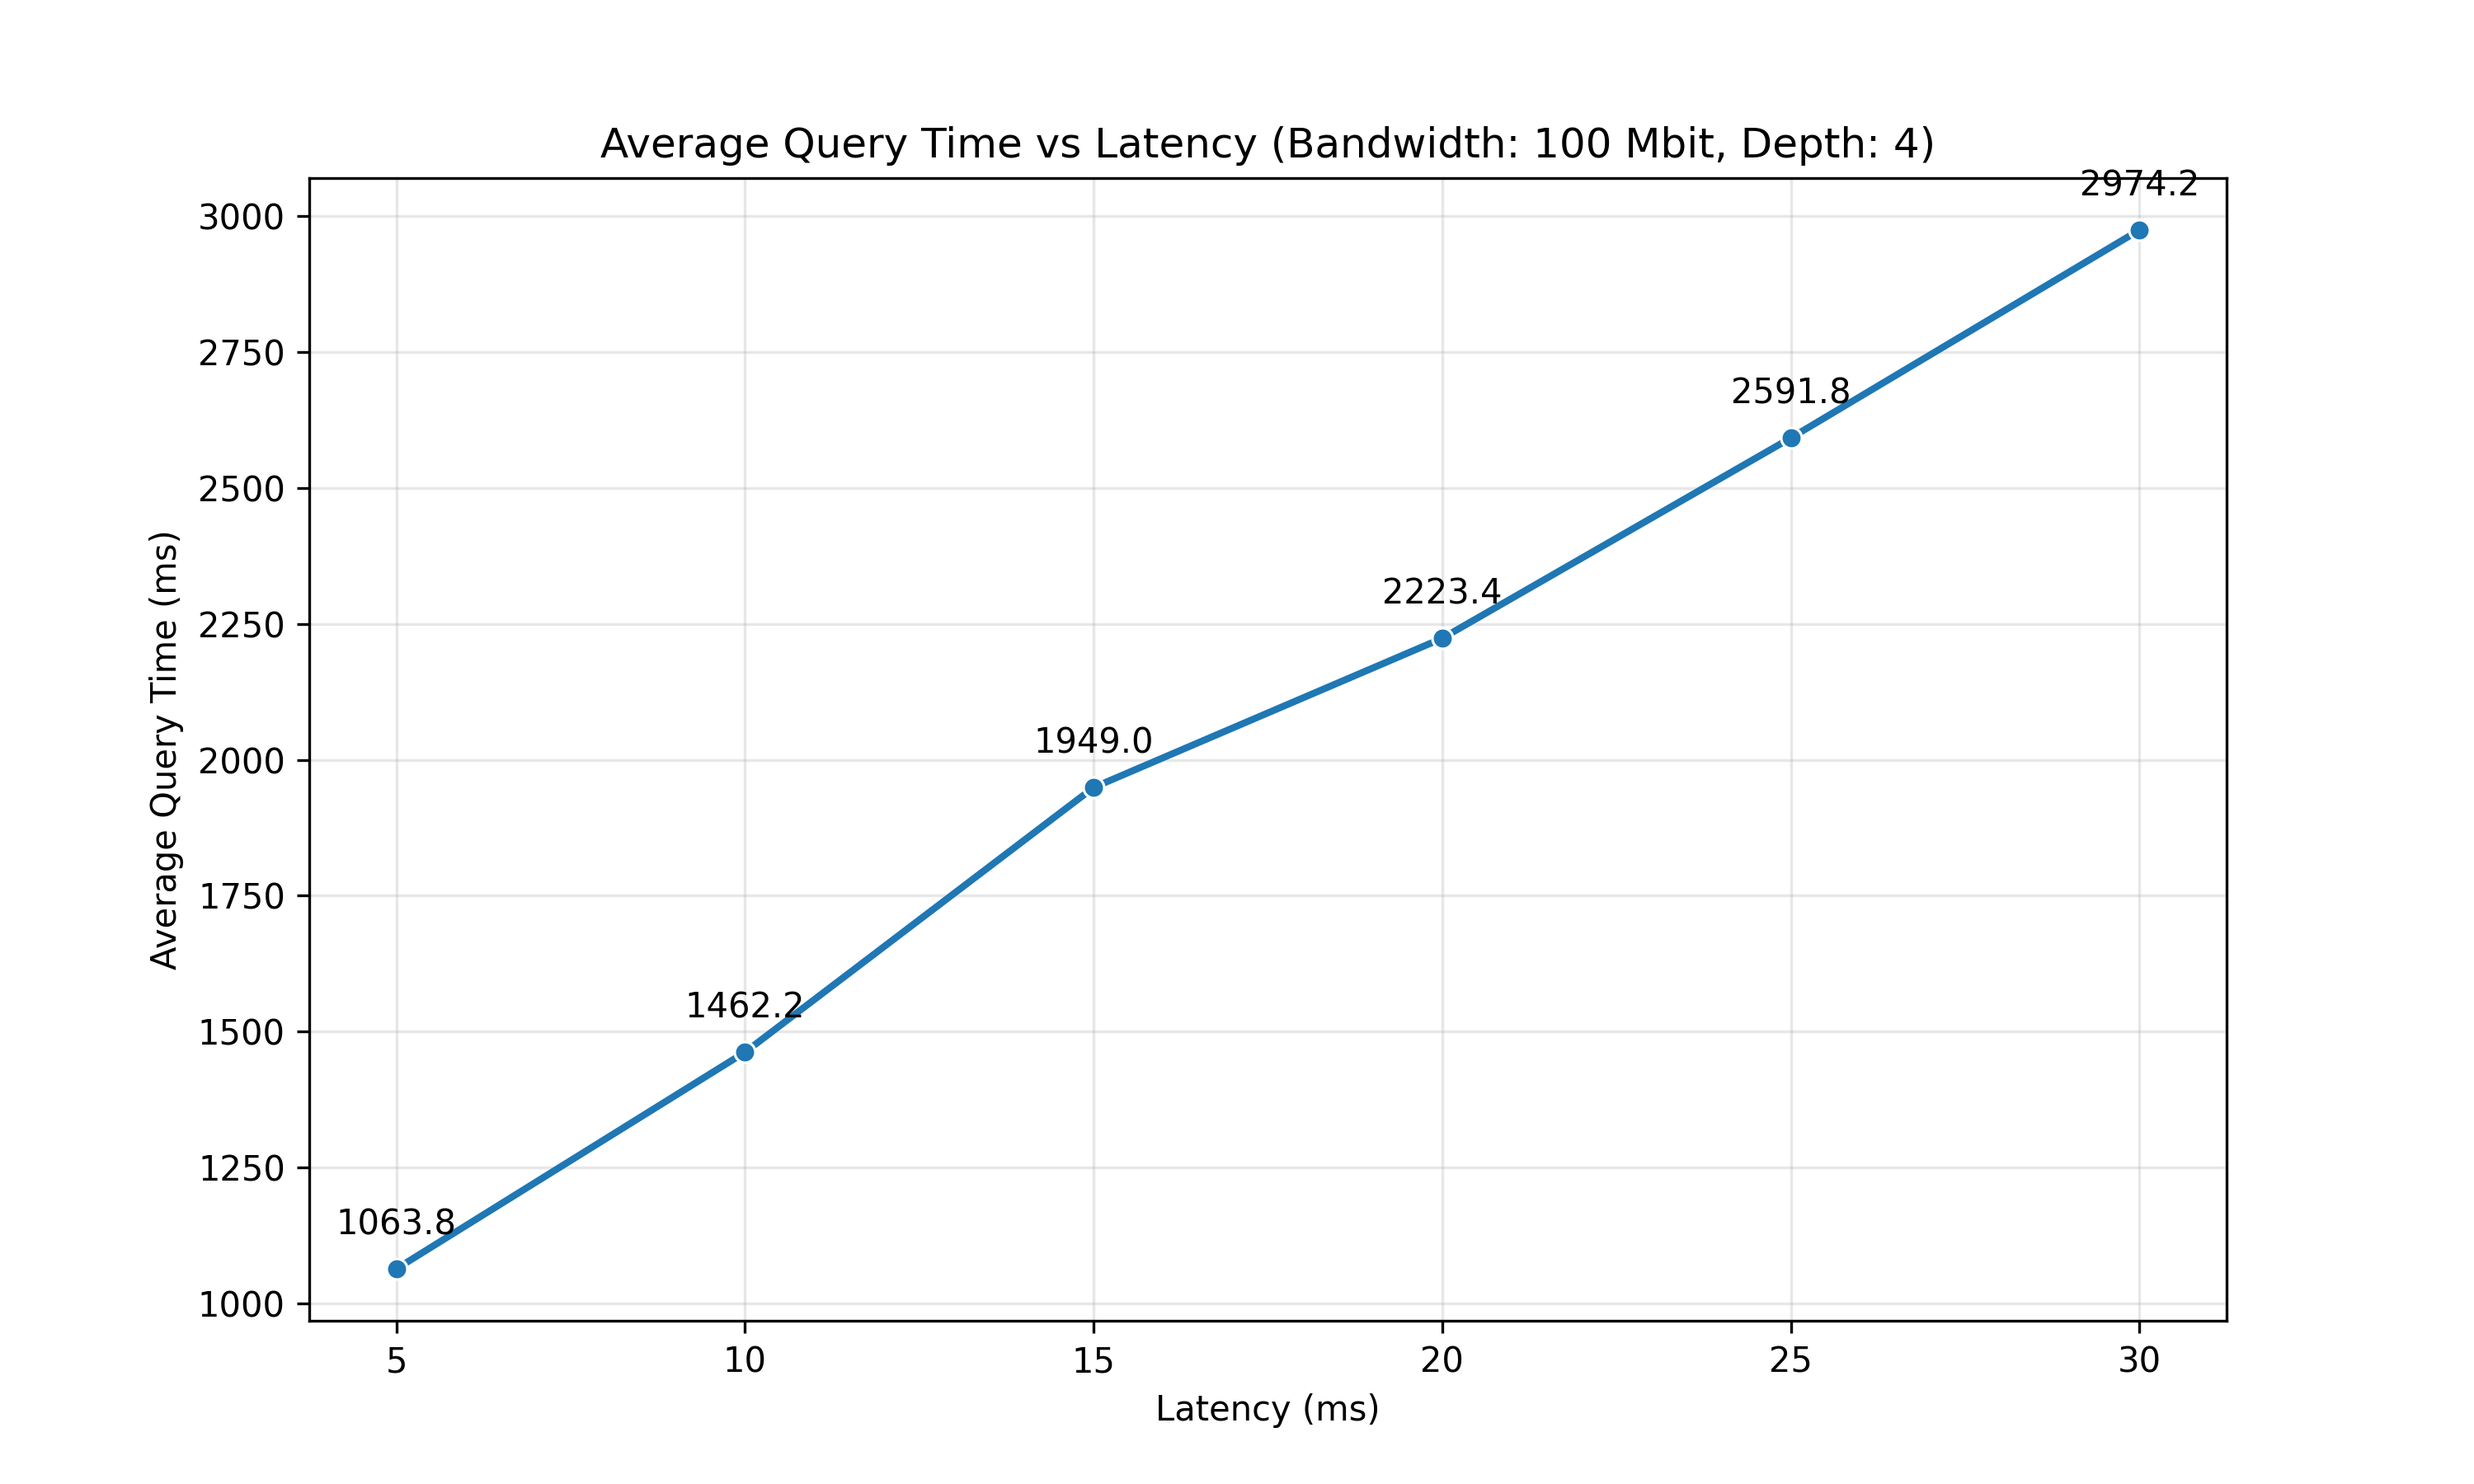
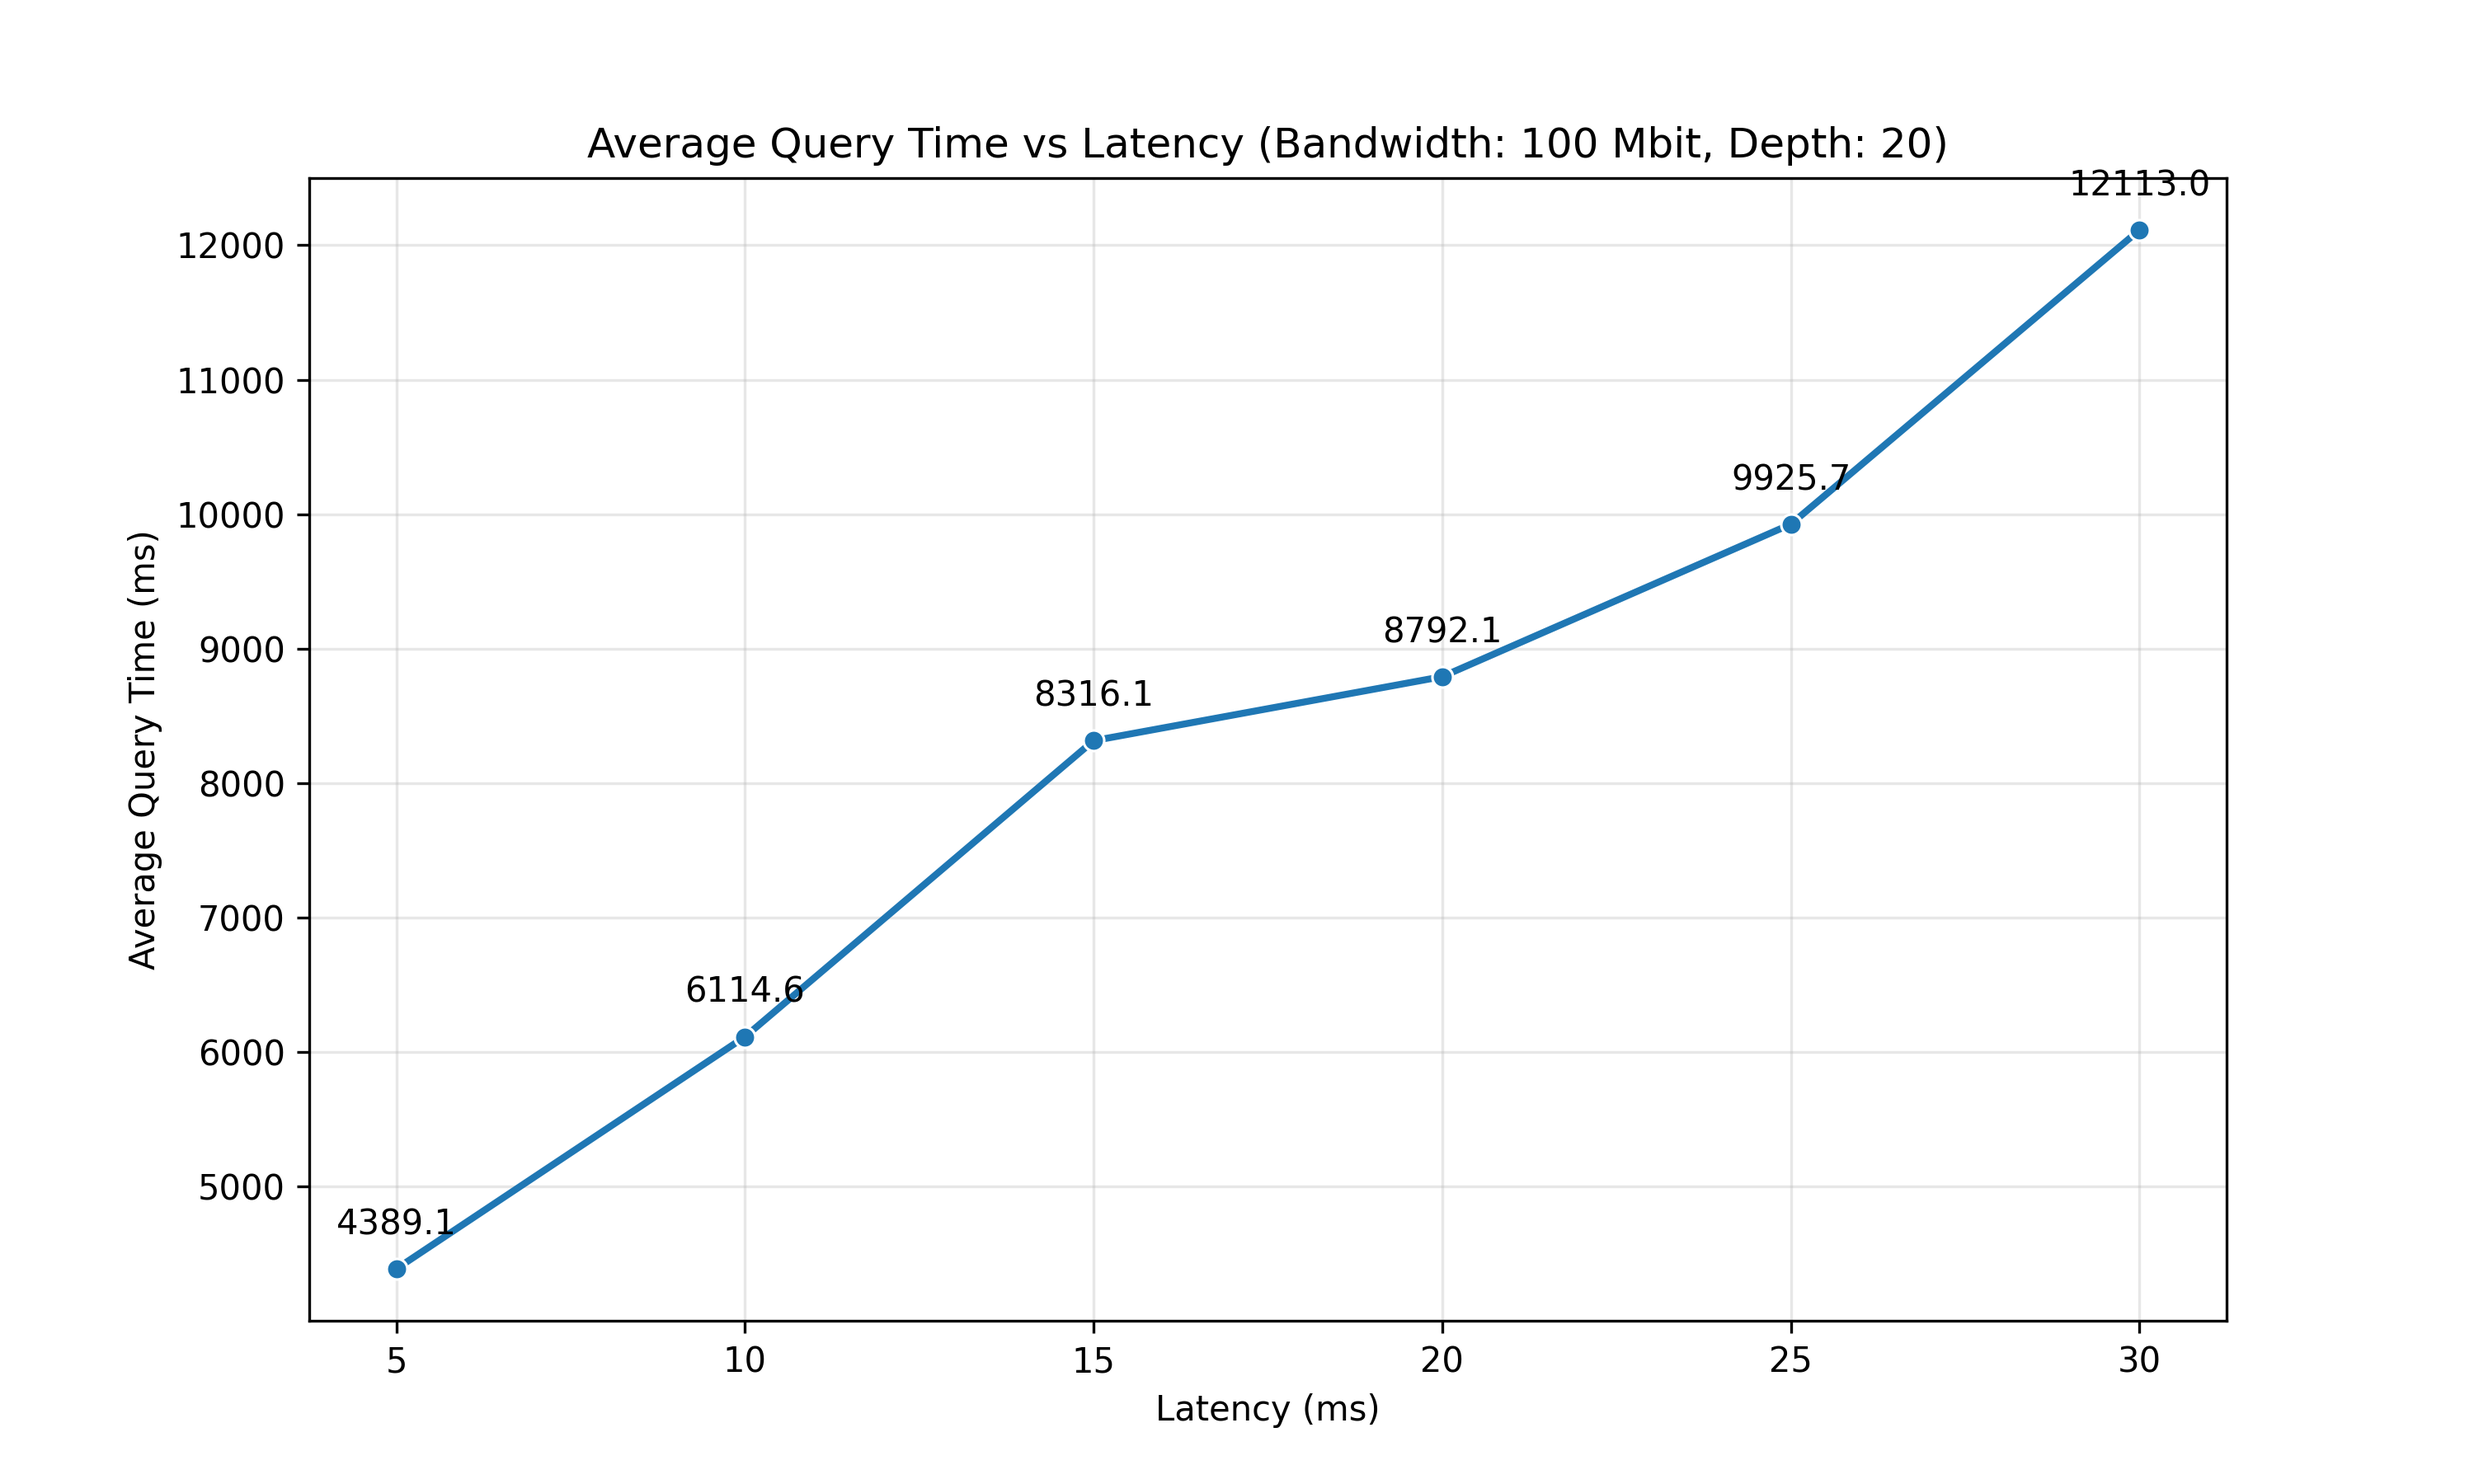
vault backup: 2025-12-11 10:57:00

diff --git a/Acads/UGP/Update.md b/Acads/UGP/Update.md
@@ -1,0 +1,63 @@
+
+I am trying to test the entire system locally sir. For the experiments as we discussed the parameters that we decided are 
+- depth
+- latency
+- bandwidth
+- number of queries or updates
+
+i started with varying depth first keeping all other constants.
+#### case 1: i did not set any networking conditions
+
+the results are similar to what we expected.
+
+Average Query Time as we increase depth
+![[Acads/UGP/assets/none/comparison_query_times.png]]
+
+Average Update Time as we increase depth
+![[Acads/UGP/assets/none/comparison_update_times.png]]
+
+#### case 1: i used set-networking script
+I used set-networking script to manually set network conditions among the docker containers.
+i used default conditions for this experiment which are 
+- latency: 30ms
+- bandwidth: 100mbit
+
+Average Query Time as we increase depth
+![[Acads/UGP/assets/lat30band100/comparison_query_times.png]]
+
+Average Update Time as we increase depth
+![[Acads/UGP/assets/lat30band100/comparison_update_times.png]]
+
+as You can see the numbers increased quite a lot from 1600ms (without network conditions) to 12000ms for a query on 20 depth tree. So next i tested varying the latency keeping 
+
+
+### Varying latency keeping rest of the parameters constant
+
+Average Query Time as we increase Latency
+![[study_latency_bw100_query.png]]
+
+Average Update Time as we increase Latency
+![[study_latency_bw100_update.png]]
+
+I ran experiments for latencies = (5ms 10ms 15ms 20ms 25ms 30ms). 
+
+**Obsertvation**
+I feel the average time taken for update and query is very large when we manuall set network conditions to default values which are also used in the PRAC paper.
+
+### Varying Bandwidth keeping rest of the parameters constant
+
+Average Query Time as we increase bandwidth
+![[study_bandwidth_lat5_query.png]]
+
+Average Update Time as we increase bandwidth
+![[study_bandwidth_lat5_update.png]]
+
+## Roadblocks and Doubts
+
+- the iitk server that we have does not access to outside internet (ping google.com does not work) we can only do ssh or scp currently . so i am not able to  run docker which needs internet to pull the base image and libraries.
+- in the prac paper it is ![[Pasted image 20251211105028.png]]
+but when i execute the run-experiment script, the logs showed 
+```bash
+Usable cores: P0=12, P1=12, P2=12
+```
+My laptop contains 16 cores out of which 12 are usable. all the 3 parties are using these 12 cores. but the papers evaluation pinned each docker container to some specific set of dedicated cores.
